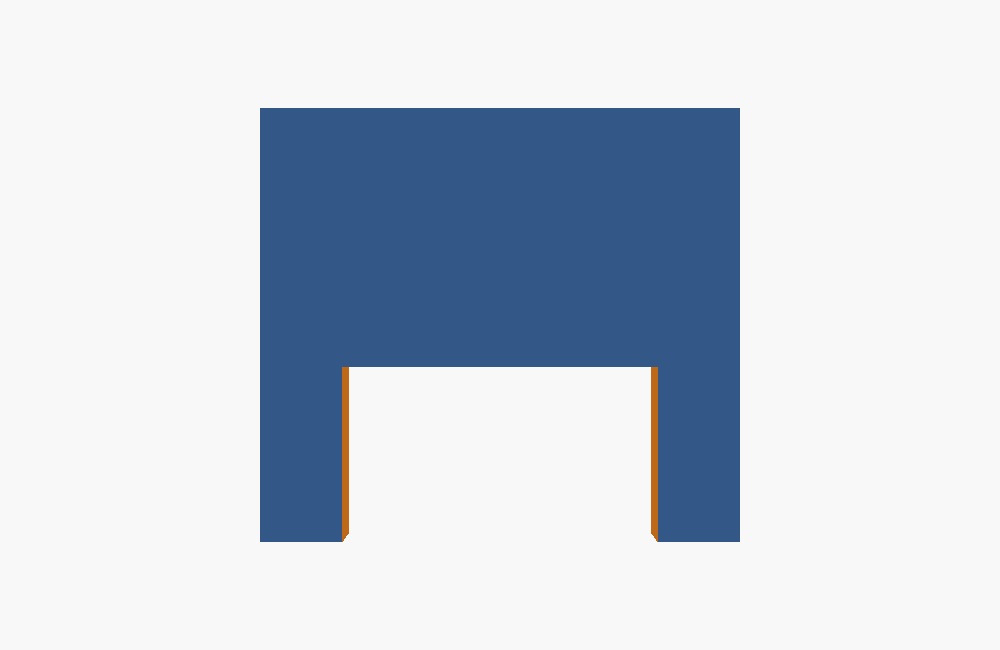
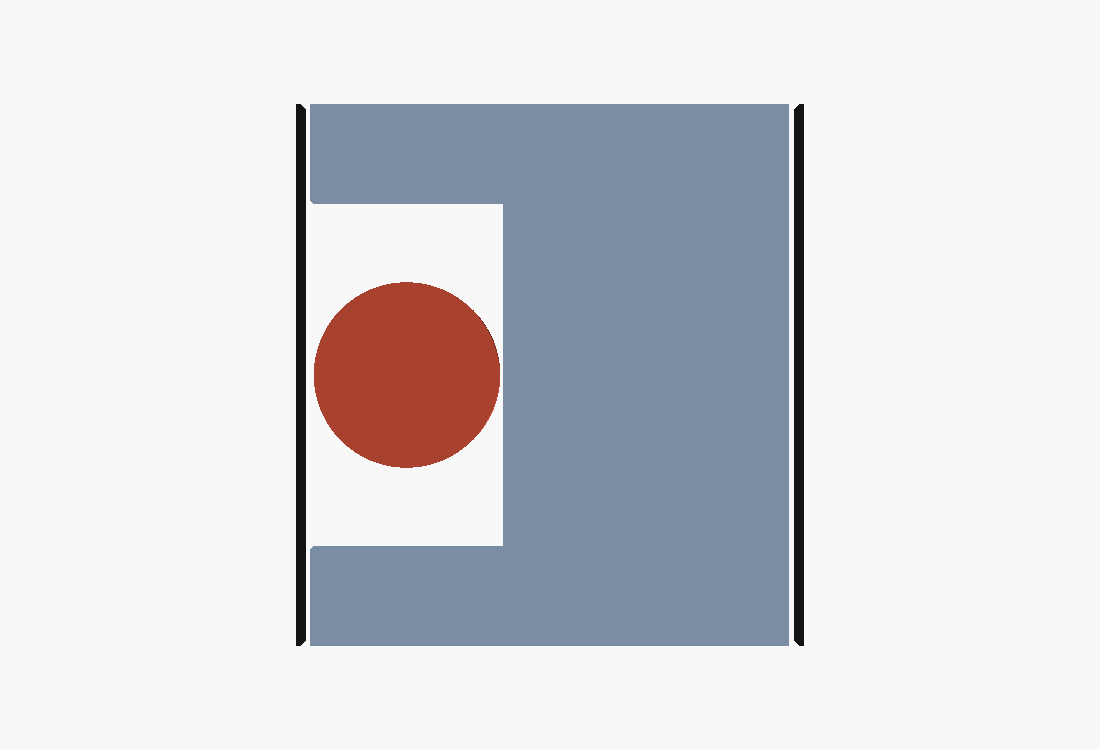
Docs: clearer channel cross-section (open wall side, solid front cover)
No model change — the channel already matches intent: open toward the wall,
solid cover on the front (under the tablet). Replace section.png with a labeled
schematic showing the cable open to the wall side and the solid front cover,
and update the caption.

Claude-Session: https://claude.ai/code/session_01StdfYpc3TEws84bizmQcm3

diff --git a/README.md b/README.md
@@ -62,11 +62,12 @@ USB edge on the left? Mirror the part in your slicer — both short edges are op
 
 ![Back of the base — the open cable channel, in from the right edge and out the bottom-left](images/cable.png)
 
-Cross-section through the channel. Printed **back-down**, the opening sits on the bed (it becomes the
-wall side), so the channel's flat roof is a short **~9 mm bridge** — easy for a P2S, no supports
-needed, and any slight sag is hidden and harmless since the channel is oversized for the cable:
+Cross-section through the channel (cable shown in red). The **wall side is open** — you lay the cable
+in from the back — while the **front (under the tablet) is a solid cover**. Printed back-down, that
+open wall side sits on the bed, so it prints open; the solid cover above it is a short **~9 mm bridge**
+that a P2S handles with no supports:
 
-![Channel cross-section — a simple open channel on the back](images/section.png)
+![Channel cross-section — open on the wall side, solid cover on the front](images/section.png)
 
 ### Inserting / removing
 
